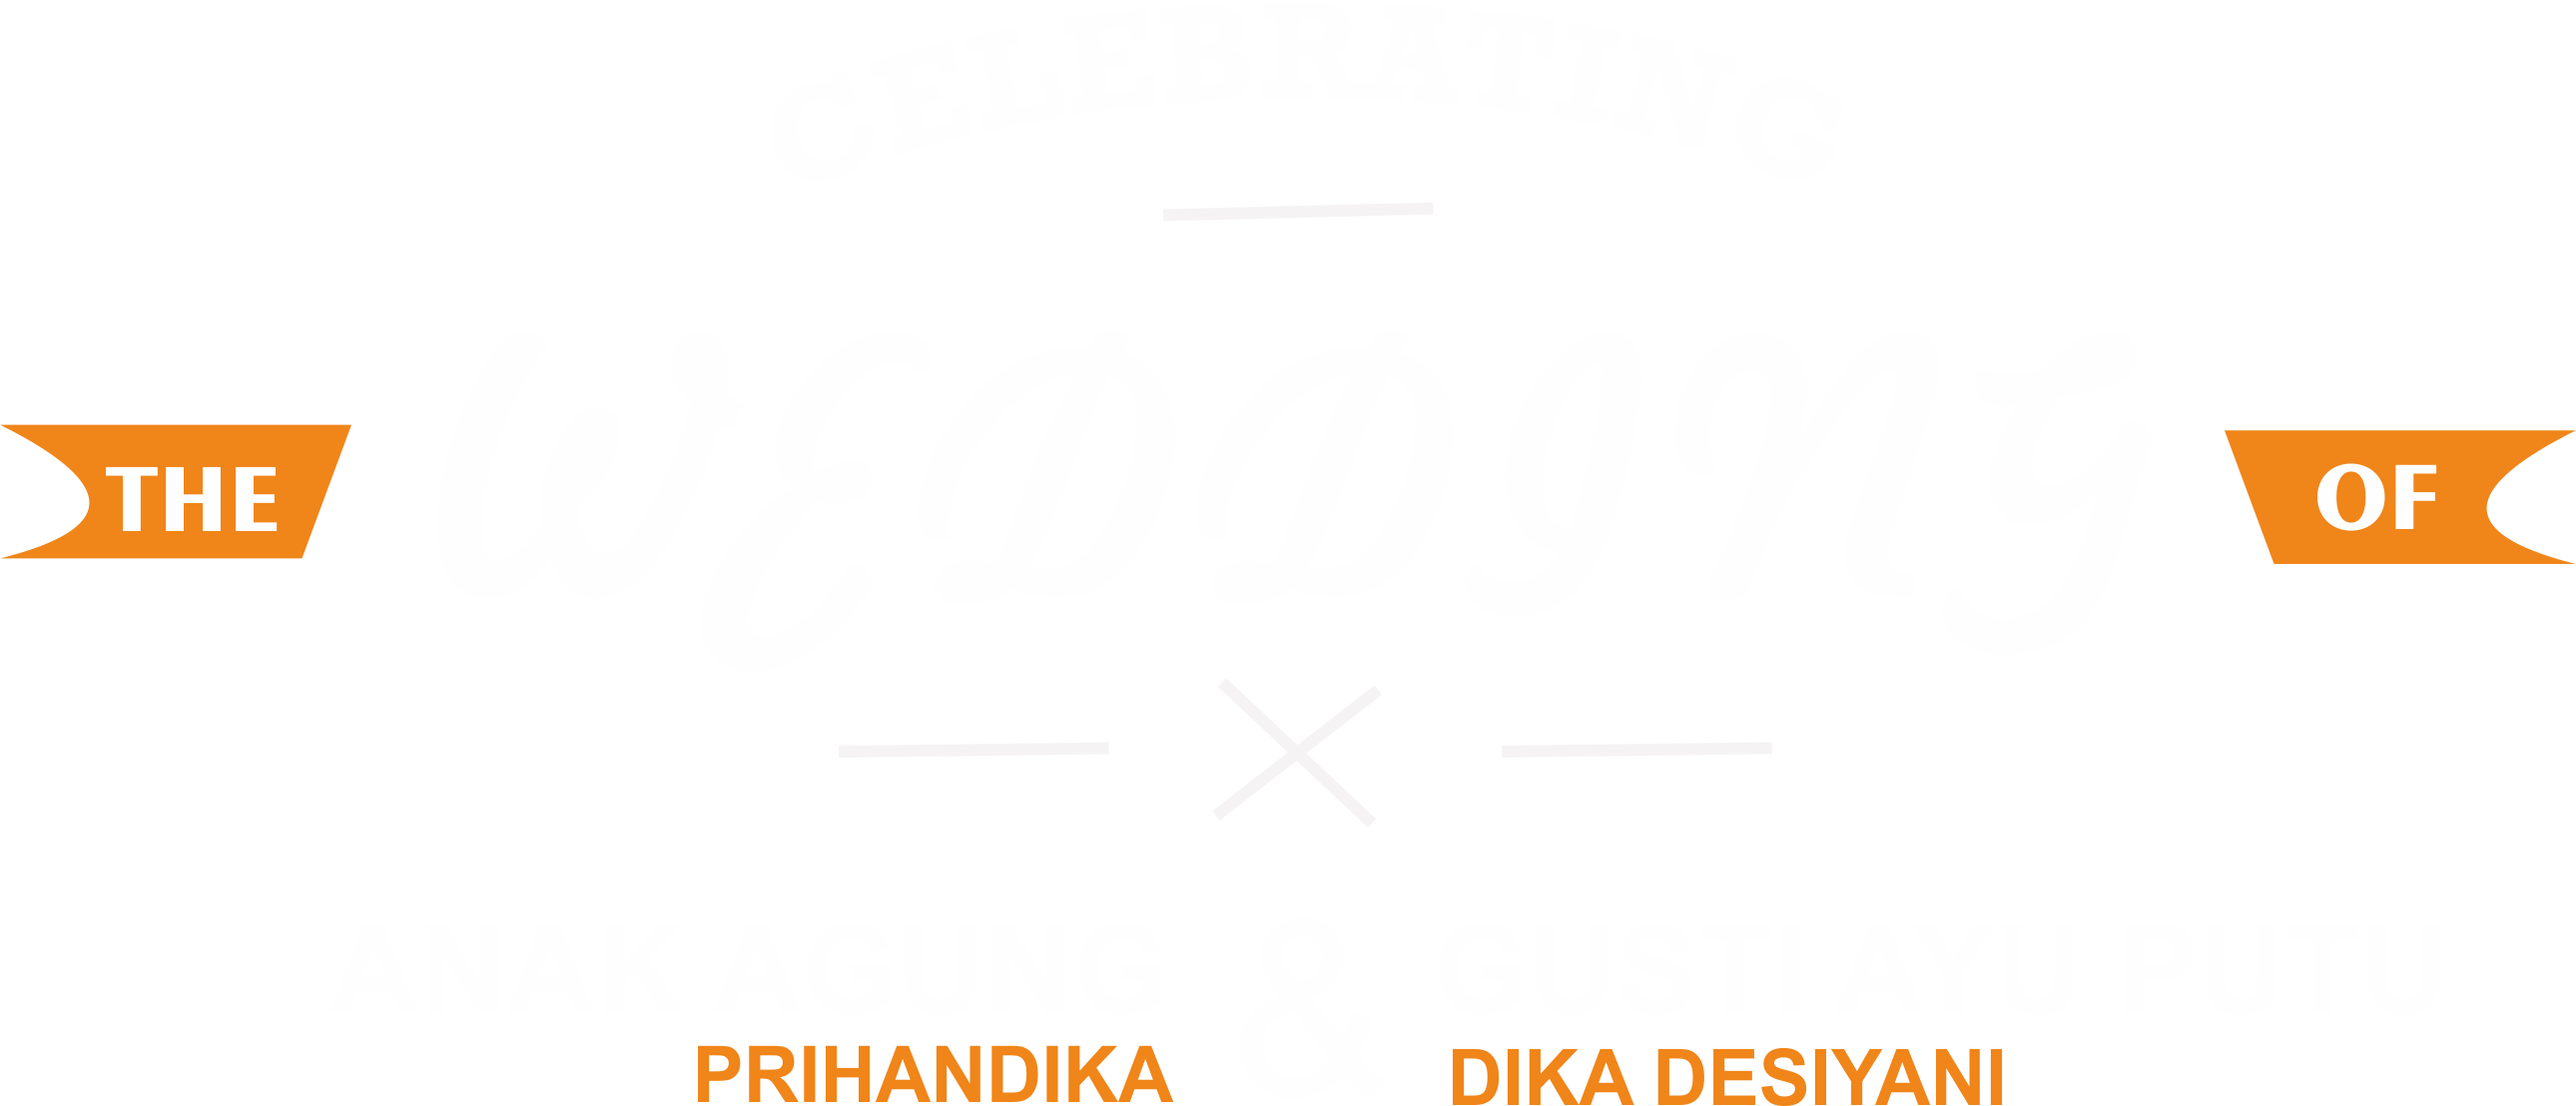
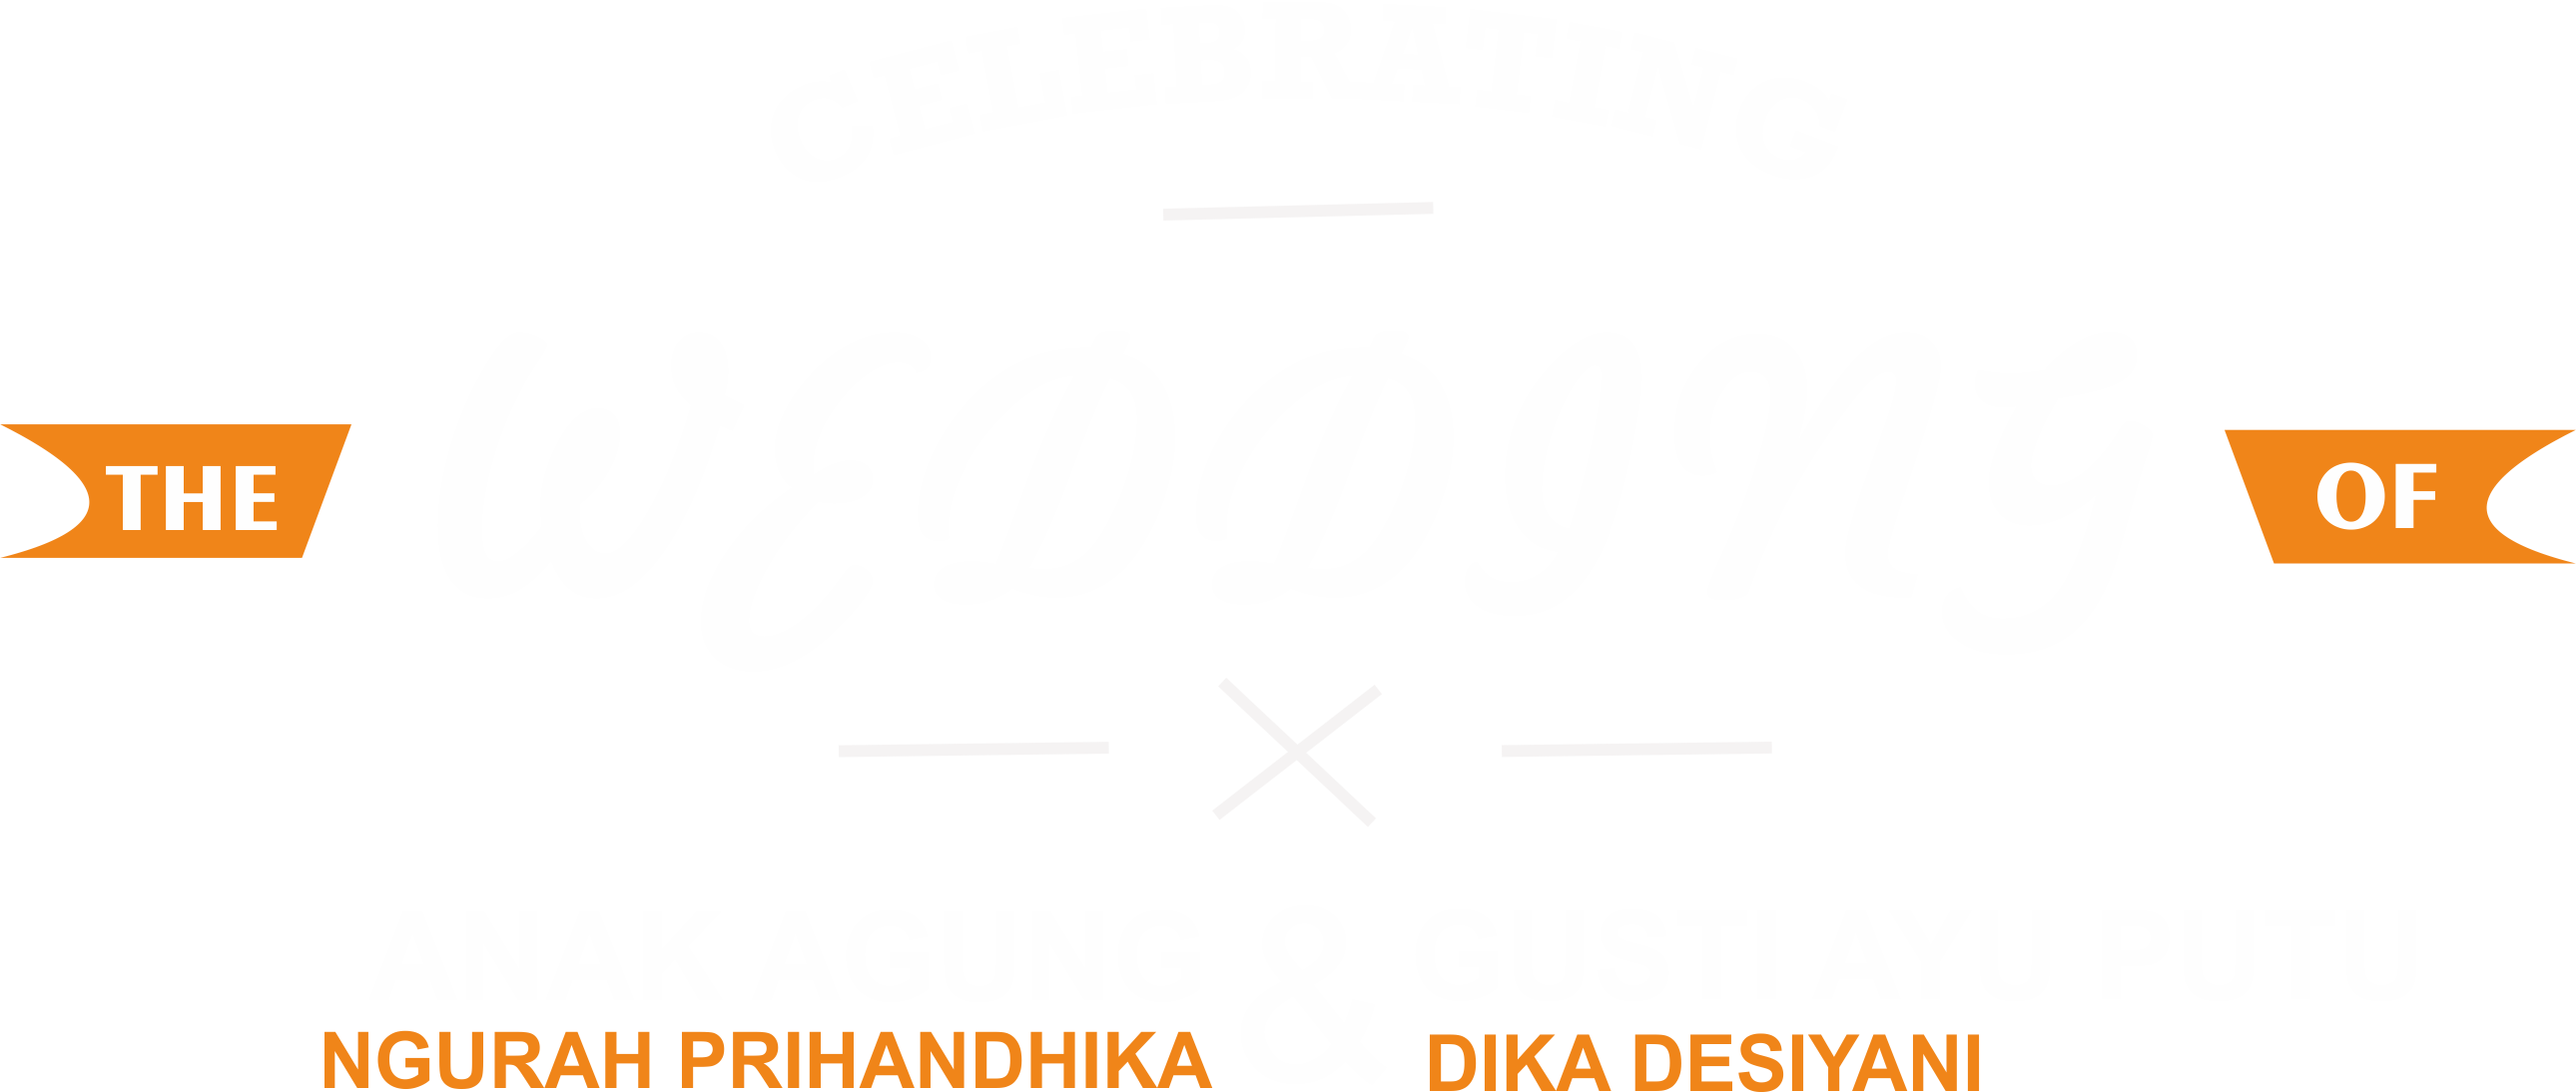
changes some file and replace some images

diff --git a/public/assets/css/invitation.css b/public/assets/css/invitation.css
@@ -30,12 +30,12 @@ html {
 }
 
 .photos {
-    width: 100px;
+    width: 150px;
     display: block;
     margin: auto;
     border-radius: 5px;
     margin-right: 20px;
-    box-shadow: 0px 10px 27px 3px rgba(204, 204, 204, 0.2);
+    /* box-shadow: 0px 10px 27px 3px rgba(204, 204, 204, 0.2); */
 }
 
 .card-wrapper {
@@ -58,6 +58,11 @@ html {
 
 .card-name {
     font-family: 'Pacifico', cursive;
+    font-size: 45px;
+}
+
+.sub-card-name {
+    font-size: 35px;
 }
 
 .scroll-top {
@@ -97,14 +102,18 @@ iframe {
     .jumbotron {
         margin-top: -72px;
         width: 100%;
-        height: 700px;
+        height: 101vh;
         overflow-x: hidden;
     }
 
     .jumbotron img {
-        width: 60%;
-        height: 60%;
+        width: 70%;
+        height: 70%;
         position: relative;
-        top: 90px;
+        top: 80px;
+    }
+
+    .photos {
+        width: 200px;
     }
 }

diff --git a/app/views/welcome/invitation.php b/app/views/welcome/invitation.php
@@ -79,20 +79,20 @@
                     <path fill-rule="evenodd" d="M8 11a3 3 0 1 0 0-6 3 3 0 0 0 0 6zM6 2.5a.5.5 0 0 1 .5-.5h3a.5.5 0 0 1 0 1h-3a.5.5 0 0 1-.5-.5z" />
                 </svg>&nbsp;Profiles</h2>
             <div class="row justify-content-center text-center">
-                <div class="col-md-4 mb-3" data-aos="fade-right" data-aos-duration="2000">
+                <div class="col-md-5 mb-3" data-aos="fade-right" data-aos-duration="2000">
                     <div class="row">
                         <div class="col">
                             <img class="photos float-left" src="../public/assets/images/profile1.jpg" alt="">
-                            <h3 class="text-left">Gung Prihandika</h3>
+                            <h3 class="text-left">Anak Agung Ngurah Prihandhika</h3>
                             <p class="text-left text-secondary">Lorem Ipsum is simply dummy text of the printing and typesetting industry</p>
                         </div>
                     </div>
                 </div>
-                <div class="col-md-4 mb-3" data-aos="fade-left" data-aos-duration="2000">
+                <div class="col-md-5 mb-3" data-aos="fade-left" data-aos-duration="2000">
                     <div class="row">
                         <div class="col">
                             <img class="photos float-left" src="../public/assets/images/profile2.jpg" alt="">
-                            <h3 class="text-left">Dika Desiyani</h3>
+                            <h3 class="text-left">Gusti Ayu Putu Dika Desiyani</h3>
                             <p class="text-left text-secondary">Lorem Ipsum is simply dummy text of the printing and typesetting industry</p>
                         </div>
                     </div>
@@ -139,8 +139,8 @@
     <!-- Start Party -->
 
     <section id="section-party">
-        <div class="container" data-aos="fade-down" data-aos-duration="2000">
-            <h2 class="text-center mt-5 mb-5 text-head"><svg width="1em" height="1em" viewBox="0 0 16 16" class="bi bi-calendar2-event-fill" fill="currentColor" xmlns="http://www.w3.org/2000/svg">
+        <div class="container mt-5" data-aos="fade-down" data-aos-duration="2000">
+            <h2 class="text-center mb-5 text-head"><svg width="1em" height="1em" viewBox="0 0 16 16" class="bi bi-calendar2-event-fill" fill="currentColor" xmlns="http://www.w3.org/2000/svg">
                     <path fill-rule="evenodd" d="M14 2H2a1 1 0 0 0-1 1v11a1 1 0 0 0 1 1h12a1 1 0 0 0 1-1V3a1 1 0 0 0-1-1zM2 1a2 2 0 0 0-2 2v11a2 2 0 0 0 2 2h12a2 2 0 0 0 2-2V3a2 2 0 0 0-2-2H2z" />
                     <path fill-rule="evenodd" d="M3.5 0a.5.5 0 0 1 .5.5V1a.5.5 0 0 1-1 0V.5a.5.5 0 0 1 .5-.5zm9 0a.5.5 0 0 1 .5.5V1a.5.5 0 0 1-1 0V.5a.5.5 0 0 1 .5-.5z" />
                     <path d="M2.5 4a.5.5 0 0 1 .5-.5h10a.5.5 0 0 1 .5.5v1a.5.5 0 0 1-.5.5H3a.5.5 0 0 1-.5-.5V4z" />
@@ -148,8 +148,8 @@
                 </svg>&nbsp;Our Party</h2>
 
             <div class="card-wrapper bg-light text-center">
-                <h1 class="pt-3 card-name">Gung Dika & Dika Desiyani</h1>
-                <p>Are getting married at Desa Yehsumbul, Come away with us to celebrate</p>
+                <h1 class="pt-4 pb-3 card-name">Anak Agung Ngurah Prihandhika <br> & <br> <span class="sub-card-name">Gusti Ayu Putu Dika Desiyani</span></h1>
+                <p>Are getting married at Desa Yehsumbul, Come away with us to celebrate.</p>
                 <p><strong>01 January 2021, 08:00 AM</strong></p>
                 <div class="row justify-content-center">
                     <div class="col-md-2">
